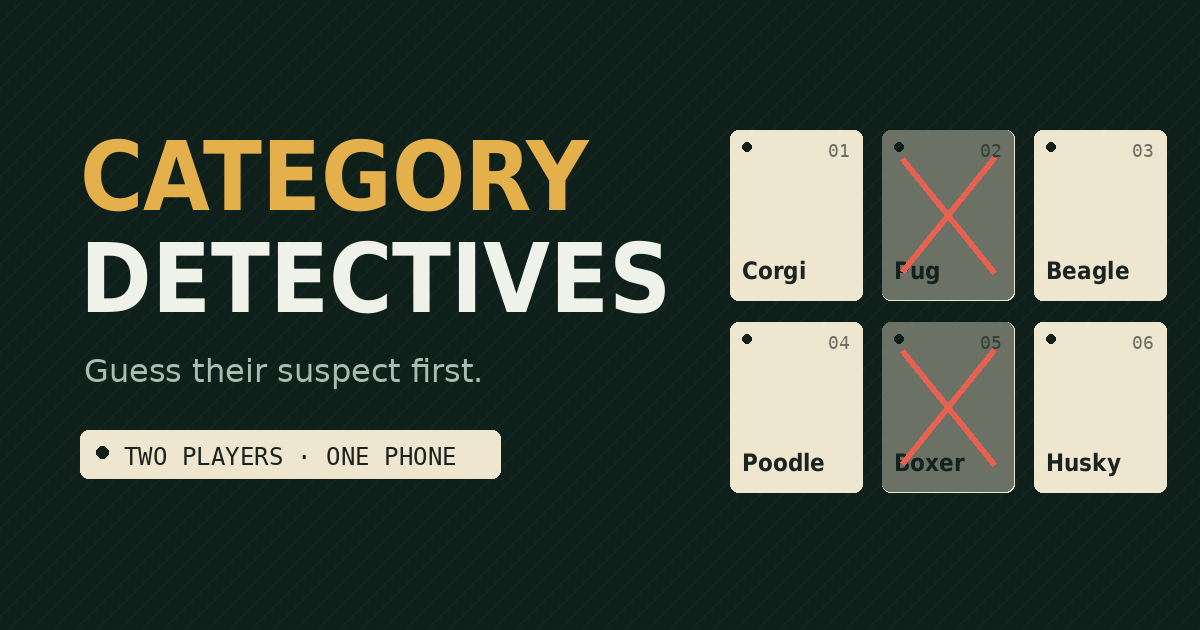
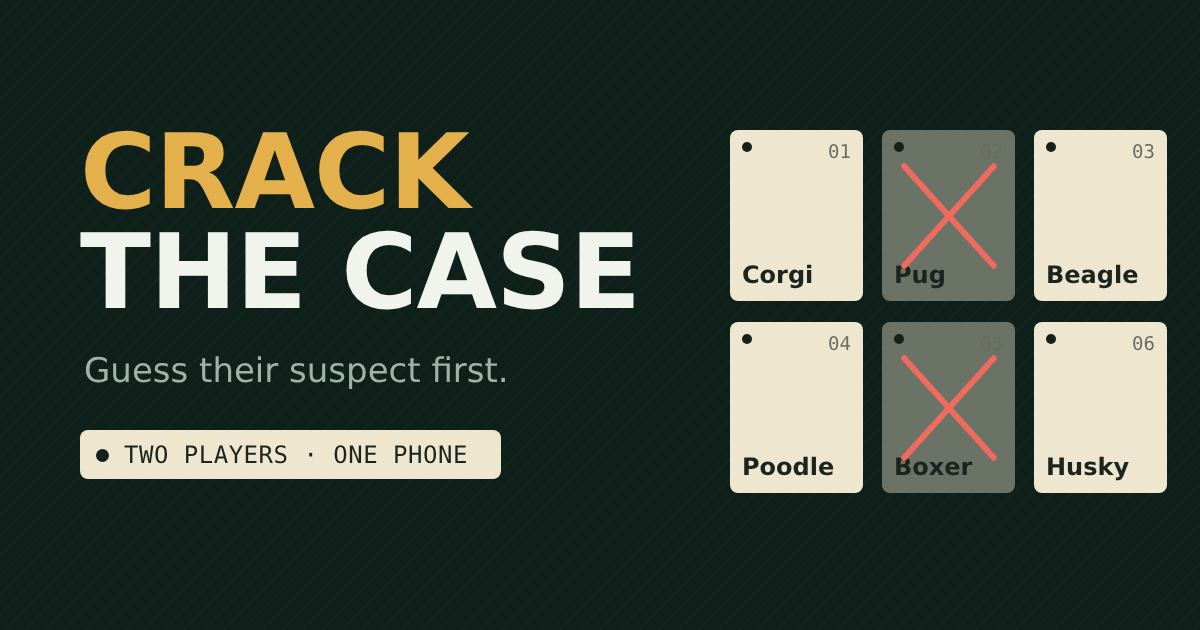
Rename the game to Crack the Case (heading, titles, link preview, About, Privacy, share text)
Claude-Session: https://claude.ai/code/session_01EvXaqUaPCLbBSDE12XEdJd

diff --git a/public/about.html b/public/about.html
@@ -5,8 +5,8 @@
 <meta name="viewport" content="width=device-width, initial-scale=1, viewport-fit=cover" />
 <meta name="color-scheme" content="dark" />
 <meta name="theme-color" content="#0f1f1a" />
-<title>About | Category Detectives</title>
-<meta name="description" content="Category Detectives is a free pass-and-play deduction game for two players on one phone." />
+<title>About | Crack the Case</title>
+<meta name="description" content="Crack the Case is a free pass-and-play deduction game for two players on one phone." />
 <link rel="canonical" href="https://category-game-woad.vercel.app/about" />
 <link rel="icon" type="image/svg+xml" href="/favicon.svg" />
 <style>
@@ -37,7 +37,7 @@ footer{margin-top:48px;padding-top:20px;border-top:1px solid var(--line);color:v
 <body>
 <main>
 <a class="back" href="/">&larr; Back to the game</a>
-<h1>Category <span>Detectives</span></h1>
+<h1><span>Crack</span> the Case</h1>
 <p class="lede">A free two-player deduction game. One phone, passed back and forth. Work out your opponent's secret suspect before they work out yours.</p>
 
 <h2>How to play</h2>
@@ -57,7 +57,7 @@ footer{margin-top:48px;padding-top:20px;border-top:1px solid var(--line);color:v
 <a class="cta" href="/">Play now</a>
 
 <h2>Names and trademarks</h2>
-<p>Category Detectives is an independent game. Names of people, characters, shows, games, cars, restaurants and other brands that appear in the lineups are used only to identify them and belong to their respective owners. This game is not affiliated with, sponsored by, or endorsed by any of them.</p>
+<p>Crack the Case is an independent game. Names of people, characters, shows, games, cars, restaurants and other brands that appear in the lineups are used only to identify them and belong to their respective owners. This game is not affiliated with, sponsored by, or endorsed by any of them.</p>
 
 <h2>Privacy</h2>
 <p>Your game stays on your device. Read the <a href="/privacy">privacy page</a> for details.</p>

diff --git a/index.html b/index.html
@@ -7,21 +7,21 @@
     <meta name="theme-color" content="#0f1f1a" />
     <meta name="description" content="A pass-and-play deduction game for two players on one phone. Get dealt a suspect, ask yes/no questions, rule suspects out, and accuse first." />
     <meta property="og:type" content="website" />
-    <meta property="og:site_name" content="Category Detectives" />
-    <meta property="og:title" content="Category Detectives" />
+    <meta property="og:site_name" content="Crack the Case" />
+    <meta property="og:title" content="Crack the Case" />
     <meta property="og:description" content="Two players, one phone. Get dealt a suspect, ask yes/no questions, and accuse first." />
     <meta property="og:url" content="https://category-game-woad.vercel.app/" />
     <meta property="og:image" content="https://category-game-woad.vercel.app/og-image.png" />
     <meta property="og:image:width" content="1200" />
     <meta property="og:image:height" content="630" />
-    <meta property="og:image:alt" content="Category Detectives: a grid of dog breed suspect cards, some ruled out with a red X." />
+    <meta property="og:image:alt" content="Crack the Case: a grid of dog breed suspect cards, some ruled out with a red X." />
     <meta name="twitter:card" content="summary_large_image" />
-    <meta name="twitter:title" content="Category Detectives" />
+    <meta name="twitter:title" content="Crack the Case" />
     <meta name="twitter:description" content="Two players, one phone. Get dealt a suspect, ask yes/no questions, and accuse first." />
     <meta name="twitter:image" content="https://category-game-woad.vercel.app/og-image.png" />
     <link rel="canonical" href="https://category-game-woad.vercel.app/" />
     <link rel="icon" type="image/svg+xml" href="/favicon.svg" />
-    <title>Category Detectives</title>
+    <title>Crack the Case</title>
   </head>
   <body>
     <div id="root"></div>

diff --git a/public/privacy.html b/public/privacy.html
@@ -5,8 +5,8 @@
 <meta name="viewport" content="width=device-width, initial-scale=1, viewport-fit=cover" />
 <meta name="color-scheme" content="dark" />
 <meta name="theme-color" content="#0f1f1a" />
-<title>Privacy | Category Detectives</title>
-<meta name="description" content="How Category Detectives handles your data: it collects no personal information." />
+<title>Privacy | Crack the Case</title>
+<meta name="description" content="How Crack the Case handles your data: it collects no personal information." />
 <link rel="canonical" href="https://category-game-woad.vercel.app/privacy" />
 <link rel="icon" type="image/svg+xml" href="/favicon.svg" />
 <style>
@@ -39,7 +39,7 @@ footer{margin-top:48px;padding-top:20px;border-top:1px solid var(--line);color:v
 <a class="back" href="/">&larr; Back to the game</a>
 <h1>Privacy</h1>
 <p class="updated">Last updated October 3, 2026</p>
-<p class="lede">Category Detectives has no accounts, no ads and no sign-up. It does not ask for or collect personal information.</p>
+<p class="lede">Crack the Case has no accounts, no ads and no sign-up. It does not ask for or collect personal information.</p>
 
 <div class="card"><p><strong>The short version:</strong> your game stays on your phone. We only count anonymous visits to the site.</p></div>
 

diff --git a/src/styles/app.css b/src/styles/app.css
@@ -1,4 +1,4 @@
-/* Category Detectives: night-desk theme, elevated.
+/* Crack the Case: night-desk theme, elevated.
    Ported unchanged from the standalone build, then extended in extras.css. */
 /* Layout: single-column case file on a night-desk ground — sticky turn header, evidence-tag grid, thumb-zone action bar. Deliberately single-theme (dark). */
 :root{
@@ -51,7 +51,7 @@ h1,h2,h3{font-family:var(--display);font-weight:900;text-transform:uppercase;let
 
 /* ---------- setup ---------- */
 .masthead{padding-block:28px 8px;display:grid;gap:10px}
-.masthead h1{font-size:clamp(54px,16vw,104px);line-height:.82}
+.masthead h1{font-size:clamp(46px,14.5vw,96px);line-height:.82}
 .masthead h1 span{display:block;color:var(--p1)}
 .masthead h1 span+span{color:var(--text);-webkit-text-stroke:0}
 .section{display:grid;gap:12px;padding-block:18px}

diff --git a/src/components/Setup.jsx b/src/components/Setup.jsx
@@ -10,8 +10,8 @@ export default function Setup({ s, send, onDeal }) {
       <header className="masthead">
         <span className="eyebrow">Two players · one phone · pass and play</span>
         <h1>
-          <span>Category</span>
-          <span>Detectives</span>
+          <span>Crack</span>
+          <span>the Case</span>
         </h1>
         <p className="lede">
           Each of you is dealt a suspect from the same lineup. Ask yes/no questions,

diff --git a/src/App.jsx b/src/App.jsx
@@ -37,7 +37,7 @@ function init() {
 /** What a screen reader should hear when the screen changes. */
 function announcement(s) {
   switch (s.screen) {
-    case 'setup': return 'Category Detectives. Pick a category and deal.';
+    case 'setup': return 'Crack the Case. Pick a category and deal.';
     case 'dealing': return 'Dealing suspects.';
     case 'reveal':
       return s.revealStep % 2 === 0

diff --git a/src/lib/share.js b/src/lib/share.js
@@ -1,6 +1,6 @@
 import { trackEvent } from './analytics.js';
 
-const TITLE = 'Category Detectives';
+const TITLE = 'Crack the Case';
 const TEXT = 'Two players, one phone. Can you out-deduce me?';
 
 /** The link people receive. Uses whatever domain the game is served from, so it keeps

diff --git a/README.md b/README.md
@@ -1,4 +1,4 @@
-# Category Detectives
+# Crack the Case
 
 Pass-and-play deduction game for two players on one phone: a mashup of Guess Who and Categories.
 React + Vite, no backend.
